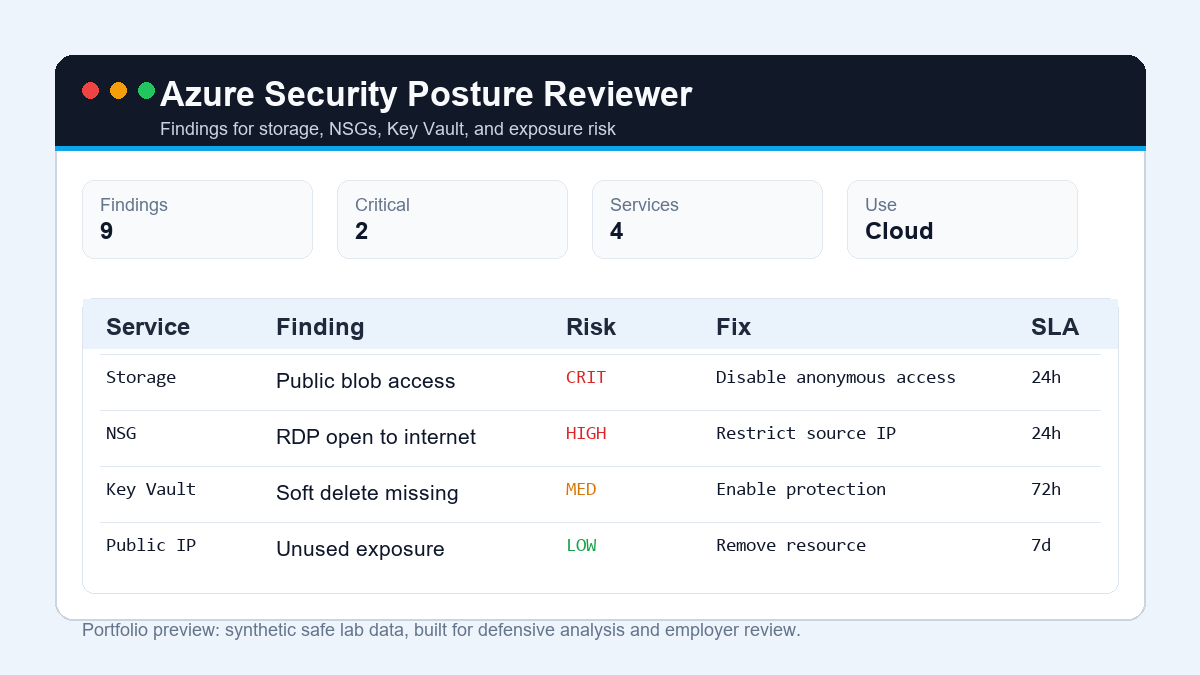
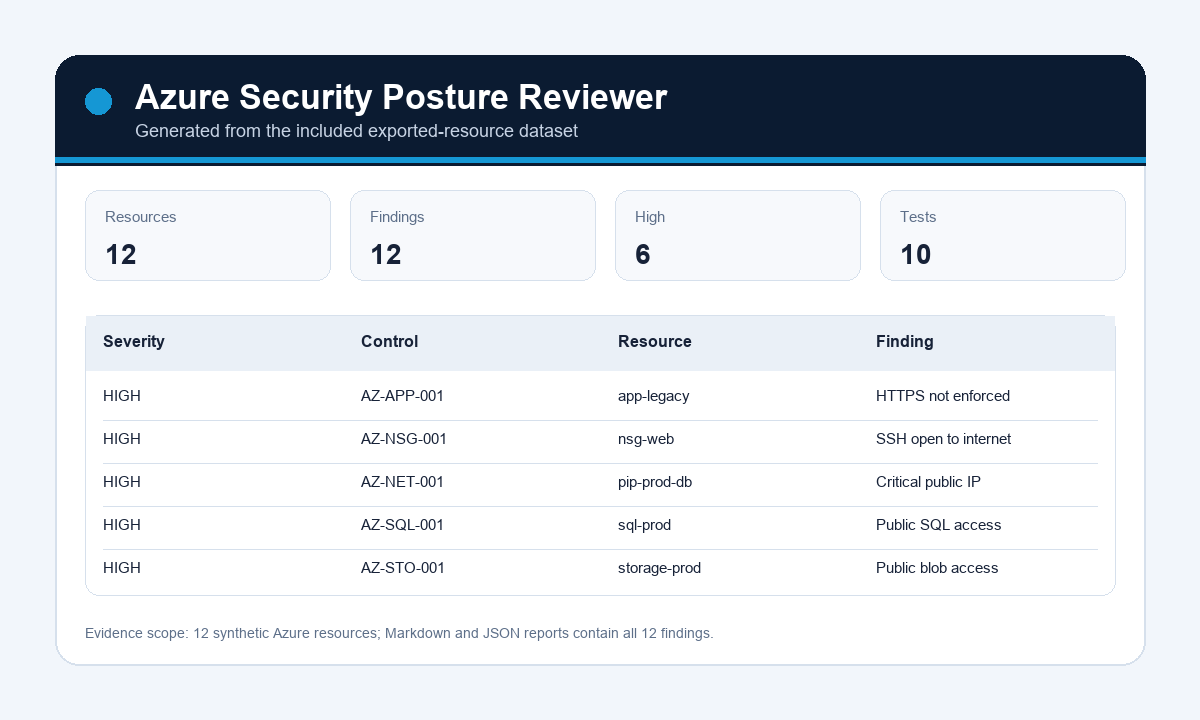
Expand Azure posture controls and reporting

diff --git a/src/azure_security_posture_reviewer/reviewer.py b/src/azure_security_posture_reviewer/reviewer.py
@@ -1,5 +1,6 @@
 from __future__ import annotations
 
+import argparse
 import json
 from pathlib import Path
 
@@ -12,11 +13,13 @@ def load_resources(path: str | Path = ROOT / "sample_data" / "azure_resources.js
     return json.loads(Path(path).read_text(encoding="utf-8"))
 
 
-def finding(resource: str, severity: str, title: str, remediation: str) -> dict[str, str]:
+def finding(rule_id: str, resource: str, severity: str, title: str, evidence: str, remediation: str) -> dict[str, str]:
     return {
+        "rule_id": rule_id,
         "resource": resource,
         "severity": severity,
         "title": title,
+        "evidence": evidence,
         "remediation": remediation,
     }
 
@@ -26,11 +29,11 @@ def review_storage(resources: dict[str, list[dict[str, object]]]) -> list[dict[s
     for account in resources.get("storage_accounts", []):
         name = str(account["name"])
         if account.get("allow_blob_public_access"):
-            findings.append(finding(name, "high", "Public blob access is enabled", "Disable public blob access unless there is a documented business requirement."))
+            findings.append(finding("AZ-STO-001", name, "high", "Public blob access is enabled", "allow_blob_public_access=true", "Disable public blob access unless there is a documented business requirement."))
         if not account.get("supports_https_traffic_only"):
-            findings.append(finding(name, "high", "Secure transfer is not enforced", "Require HTTPS-only traffic for the storage account."))
+            findings.append(finding("AZ-STO-002", name, "high", "Secure transfer is not enforced", "supports_https_traffic_only=false", "Require HTTPS-only traffic for the storage account."))
         if account.get("minimum_tls_version") != "TLS1_2":
-            findings.append(finding(name, "medium", "Minimum TLS version is below TLS1_2", "Set the minimum TLS version to TLS1_2 or higher."))
+            findings.append(finding("AZ-STO-003", name, "medium", "Minimum TLS version is below TLS1_2", f"minimum_tls_version={account.get('minimum_tls_version')}", "Set the minimum TLS version to TLS1_2 or higher."))
     return findings
 
 
@@ -41,9 +44,11 @@ def review_nsg(resources: dict[str, list[dict[str, object]]]) -> list[dict[str, 
             if rule.get("access") == "Allow" and rule.get("source") == "0.0.0.0/0" and rule.get("destination_port") in MANAGEMENT_PORTS:
                 findings.append(
                     finding(
+                        "AZ-NSG-001",
                         str(nsg["name"]),
                         "high",
                         "SSH/RDP is open to the internet",
+                        f"{rule.get('name')} allows {rule.get('source')} to port {rule.get('destination_port')}",
                         "Restrict management access to VPN, privileged access workstations, or just-in-time access.",
                     )
                 )
@@ -55,9 +60,9 @@ def review_key_vault(resources: dict[str, list[dict[str, object]]]) -> list[dict
     for vault in resources.get("key_vaults", []):
         name = str(vault["name"])
         if not vault.get("soft_delete_enabled"):
-            findings.append(finding(name, "high", "Key Vault soft delete is disabled", "Enable soft delete to support recovery of deleted secrets and keys."))
+            findings.append(finding("AZ-KV-001", name, "high", "Key Vault soft delete is disabled", "soft_delete_enabled=false", "Enable soft delete to support recovery of deleted secrets and keys."))
         if not vault.get("purge_protection_enabled"):
-            findings.append(finding(name, "medium", "Key Vault purge protection is disabled", "Enable purge protection for production vaults."))
+            findings.append(finding("AZ-KV-002", name, "medium", "Key Vault purge protection is disabled", "purge_protection_enabled=false", "Enable purge protection for production vaults."))
     return findings
 
 
@@ -67,29 +72,92 @@ def review_public_ips(resources: dict[str, list[dict[str, object]]]) -> list[dic
         if public_ip.get("business_critical") and public_ip.get("environment") == "production":
             findings.append(
                 finding(
+                    "AZ-NET-001",
                     str(public_ip["name"]),
                     "high",
                     "Business-critical production workload has a public IP",
+                    f"attached_to={public_ip.get('attached_to')}; environment=production",
                     "Place sensitive workloads behind a load balancer, private endpoint, VPN, or application gateway where possible.",
                 )
             )
     return findings
 
 
+def review_sql(resources: dict[str, list[dict[str, object]]]) -> list[dict[str, str]]:
+    findings = []
+    for server in resources.get("sql_servers", []):
+        name = str(server["name"])
+        if server.get("public_network_access") == "Enabled":
+            findings.append(finding("AZ-SQL-001", name, "high", "SQL public network access is enabled", "public_network_access=Enabled", "Use private endpoints and disable public network access where possible."))
+        if server.get("minimum_tls_version") != "1.2":
+            findings.append(finding("AZ-SQL-002", name, "medium", "SQL minimum TLS is below 1.2", f"minimum_tls_version={server.get('minimum_tls_version')}", "Require TLS 1.2 or higher for database connections."))
+        if not server.get("auditing_enabled"):
+            findings.append(finding("AZ-SQL-003", name, "medium", "SQL auditing is disabled", "auditing_enabled=false", "Enable auditing and route logs to an approved monitoring destination."))
+    return findings
+
+
+def review_app_services(resources: dict[str, list[dict[str, object]]]) -> list[dict[str, str]]:
+    findings = []
+    for app in resources.get("app_services", []):
+        name = str(app["name"])
+        if not app.get("https_only"):
+            findings.append(finding("AZ-APP-001", name, "high", "App Service does not enforce HTTPS", "https_only=false", "Enable HTTPS Only for the App Service."))
+        if app.get("ftps_state") == "AllAllowed":
+            findings.append(finding("AZ-APP-002", name, "medium", "Unencrypted FTP is allowed", "ftps_state=AllAllowed", "Set FTPS state to FtpsOnly or Disabled."))
+        if app.get("minimum_tls_version") != "1.2":
+            findings.append(finding("AZ-APP-003", name, "medium", "App Service minimum TLS is below 1.2", f"minimum_tls_version={app.get('minimum_tls_version')}", "Set the minimum TLS version to 1.2 or higher."))
+    return findings
+
+
 def review(resources: dict[str, list[dict[str, object]]] | None = None) -> list[dict[str, str]]:
-    resources = resources or load_resources()
+    if resources is None:
+        resources = load_resources()
     findings = []
     findings.extend(review_storage(resources))
     findings.extend(review_nsg(resources))
     findings.extend(review_key_vault(resources))
     findings.extend(review_public_ips(resources))
+    findings.extend(review_sql(resources))
+    findings.extend(review_app_services(resources))
     severity_order = {"high": 0, "medium": 1, "low": 2}
     return sorted(findings, key=lambda item: (severity_order.get(item["severity"], 9), item["resource"]))
 
 
+def write_markdown(findings: list[dict[str, str]], path: str | Path) -> None:
+    rows = "\n".join(
+        f"| {item['severity'].upper()} | {item['rule_id']} | {item['resource']} | {item['title']} | {item['evidence']} | {item['remediation']} |"
+        for item in findings
+    )
+    Path(path).parent.mkdir(parents=True, exist_ok=True)
+    Path(path).write_text(
+        "# Azure Security Posture Findings\n\n"
+        f"Findings: **{len(findings)}**\n\n"
+        "| Severity | Control | Resource | Finding | Evidence | Remediation |\n"
+        "| --- | --- | --- | --- | --- | --- |\n"
+        f"{rows or '| - | - | - | No findings | - | - |'}\n",
+        encoding="utf-8",
+    )
+
+
+def write_json(findings: list[dict[str, str]], path: str | Path) -> None:
+    Path(path).parent.mkdir(parents=True, exist_ok=True)
+    Path(path).write_text(json.dumps(findings, indent=2), encoding="utf-8")
+
+
 def main() -> int:
-    for item in review():
+    parser = argparse.ArgumentParser(description="Review exported Azure resource posture data.")
+    parser.add_argument("--resources", default=str(ROOT / "sample_data" / "azure_resources.json"))
+    parser.add_argument("--markdown", default="reports/example_findings.md")
+    parser.add_argument("--json", default="reports/example_findings.json")
+    args = parser.parse_args()
+    findings = review(load_resources(args.resources))
+    write_markdown(findings, args.markdown)
+    write_json(findings, args.json)
+    for item in findings:
         print(f"{item['severity'].upper()} {item['resource']} {item['title']}")
+    print(f"Findings: {len(findings)}")
+    print(f"Markdown report: {args.markdown}")
+    print(f"JSON report: {args.json}")
     return 0
 
 

diff --git a/tests/test_reviewer.py b/tests/test_reviewer.py
@@ -1,6 +1,9 @@
 import unittest
+import json
+import tempfile
+from pathlib import Path
 
-from azure_security_posture_reviewer.reviewer import load_resources, review
+from azure_security_posture_reviewer.reviewer import load_resources, review, write_json, write_markdown
 
 
 class AzureSecurityPostureTests(unittest.TestCase):
@@ -21,6 +24,33 @@ class AzureSecurityPostureTests(unittest.TestCase):
 
     def test_high_findings_are_sorted_first(self):
         self.assertEqual(self.findings[0]["severity"], "high")
+
+    def test_sql_public_access_and_auditing_are_checked(self):
+        sql_findings = [item for item in self.findings if item["resource"] == "sql-prod"]
+        self.assertTrue(any(item["rule_id"] == "AZ-SQL-001" for item in sql_findings))
+        self.assertTrue(any(item["rule_id"] == "AZ-SQL-003" for item in sql_findings))
+
+    def test_app_service_transport_controls_are_checked(self):
+        app_findings = [item for item in self.findings if item["resource"] == "app-legacy"]
+        self.assertEqual({item["rule_id"] for item in app_findings}, {"AZ-APP-001", "AZ-APP-002", "AZ-APP-003"})
+
+    def test_secure_resources_do_not_create_findings(self):
+        resources = {"storage_accounts": [{"name": "secure", "allow_blob_public_access": False, "supports_https_traffic_only": True, "minimum_tls_version": "TLS1_2"}]}
+        self.assertEqual(review(resources), [])
+
+    def test_empty_export_does_not_fall_back_to_sample_data(self):
+        self.assertEqual(review({}), [])
+
+    def test_reports_are_machine_and_analyst_readable(self):
+        with tempfile.TemporaryDirectory() as directory:
+            markdown = Path(directory) / "findings.md"
+            output_json = Path(directory) / "findings.json"
+            write_markdown(self.findings, markdown)
+            write_json(self.findings, output_json)
+            report = markdown.read_text(encoding="utf-8")
+            parsed = json.loads(output_json.read_text(encoding="utf-8"))
+        self.assertIn("AZ-STO-001", report)
+        self.assertEqual(len(parsed), len(self.findings))
 
 
 if __name__ == "__main__":

diff --git a/reports/example_findings.md b/reports/example_findings.md
@@ -1,13 +1,18 @@
-# Example Azure Security Posture Findings
+# Azure Security Posture Findings
 
-| Severity | Resource | Finding | Remediation |
-| --- | --- | --- | --- |
-| High | `storage-prod` | Public blob access is enabled | Disable public blob access unless there is a documented business requirement. |
-| High | `storage-prod` | Secure transfer is not enforced | Require HTTPS-only traffic for the storage account. |
-| High | `nsg-web` | SSH/RDP is open to the internet | Restrict management access to VPN, privileged access workstations, or just-in-time access. |
-| High | `pip-prod-db` | Business-critical production workload has a public IP | Place sensitive workloads behind a load balancer, private endpoint, VPN, or application gateway where possible. |
-| Medium | `kv-prod` | Key Vault purge protection is disabled | Enable purge protection for production vaults. |
+Findings: **12**
 
-## Analyst Summary
-
-The highest-priority risks are public access paths into production services and weak protection around sensitive storage or secrets. The recommended first action is to remove internet-exposed management access and confirm whether the production database public IP is required.
+| Severity | Control | Resource | Finding | Evidence | Remediation |
+| --- | --- | --- | --- | --- | --- |
+| HIGH | AZ-APP-001 | app-legacy | App Service does not enforce HTTPS | https_only=false | Enable HTTPS Only for the App Service. |
+| HIGH | AZ-NSG-001 | nsg-web | SSH/RDP is open to the internet | Allow-SSH-Internet allows 0.0.0.0/0 to port 22 | Restrict management access to VPN, privileged access workstations, or just-in-time access. |
+| HIGH | AZ-NET-001 | pip-prod-db | Business-critical production workload has a public IP | attached_to=prod-db-01; environment=production | Place sensitive workloads behind a load balancer, private endpoint, VPN, or application gateway where possible. |
+| HIGH | AZ-SQL-001 | sql-prod | SQL public network access is enabled | public_network_access=Enabled | Use private endpoints and disable public network access where possible. |
+| HIGH | AZ-STO-001 | storage-prod | Public blob access is enabled | allow_blob_public_access=true | Disable public blob access unless there is a documented business requirement. |
+| HIGH | AZ-STO-002 | storage-prod | Secure transfer is not enforced | supports_https_traffic_only=false | Require HTTPS-only traffic for the storage account. |
+| MEDIUM | AZ-APP-002 | app-legacy | Unencrypted FTP is allowed | ftps_state=AllAllowed | Set FTPS state to FtpsOnly or Disabled. |
+| MEDIUM | AZ-APP-003 | app-legacy | App Service minimum TLS is below 1.2 | minimum_tls_version=1.0 | Set the minimum TLS version to 1.2 or higher. |
+| MEDIUM | AZ-KV-002 | kv-prod | Key Vault purge protection is disabled | purge_protection_enabled=false | Enable purge protection for production vaults. |
+| MEDIUM | AZ-SQL-002 | sql-prod | SQL minimum TLS is below 1.2 | minimum_tls_version=1.0 | Require TLS 1.2 or higher for database connections. |
+| MEDIUM | AZ-SQL-003 | sql-prod | SQL auditing is disabled | auditing_enabled=false | Enable auditing and route logs to an approved monitoring destination. |
+| MEDIUM | AZ-STO-003 | storage-prod | Minimum TLS version is below TLS1_2 | minimum_tls_version=TLS1_0 | Set the minimum TLS version to TLS1_2 or higher. |

diff --git a/README.md b/README.md
@@ -26,6 +26,8 @@ It focuses on entry-level cloud security analyst skills:
 - Checking network security group rules.
 - Identifying risky public IP and management access patterns.
 - Reviewing Key Vault soft-delete and purge protection.
+- Reviewing Azure SQL public access, TLS, and auditing.
+- Reviewing App Service HTTPS, FTPS, and minimum TLS posture.
 - Producing clear remediation guidance.
 - Testing posture checks against synthetic data.
 
@@ -42,6 +44,8 @@ Cloud security roles need people who can explain risk clearly, not just run tool
 | NSG allows SSH/RDP from internet | Management exposure |
 | Key Vault purge protection disabled | Weak recovery and ransomware resilience |
 | Public IP on sensitive workload | Increased attack surface |
+| Azure SQL public access or missing auditing | Data exposure and reduced visibility |
+| App Service without HTTPS or modern TLS | Insecure application transport |
 
 ## Quick Start
 
@@ -52,6 +56,8 @@ pip install -e .
 python -m azure_security_posture_reviewer.reviewer
 python -m unittest discover -s tests -v
 ```
+
+The command generates both `reports/example_findings.md` and `reports/example_findings.json`, with control IDs, direct evidence, severity, and remediation for every finding.
 
 ## Example Output
 